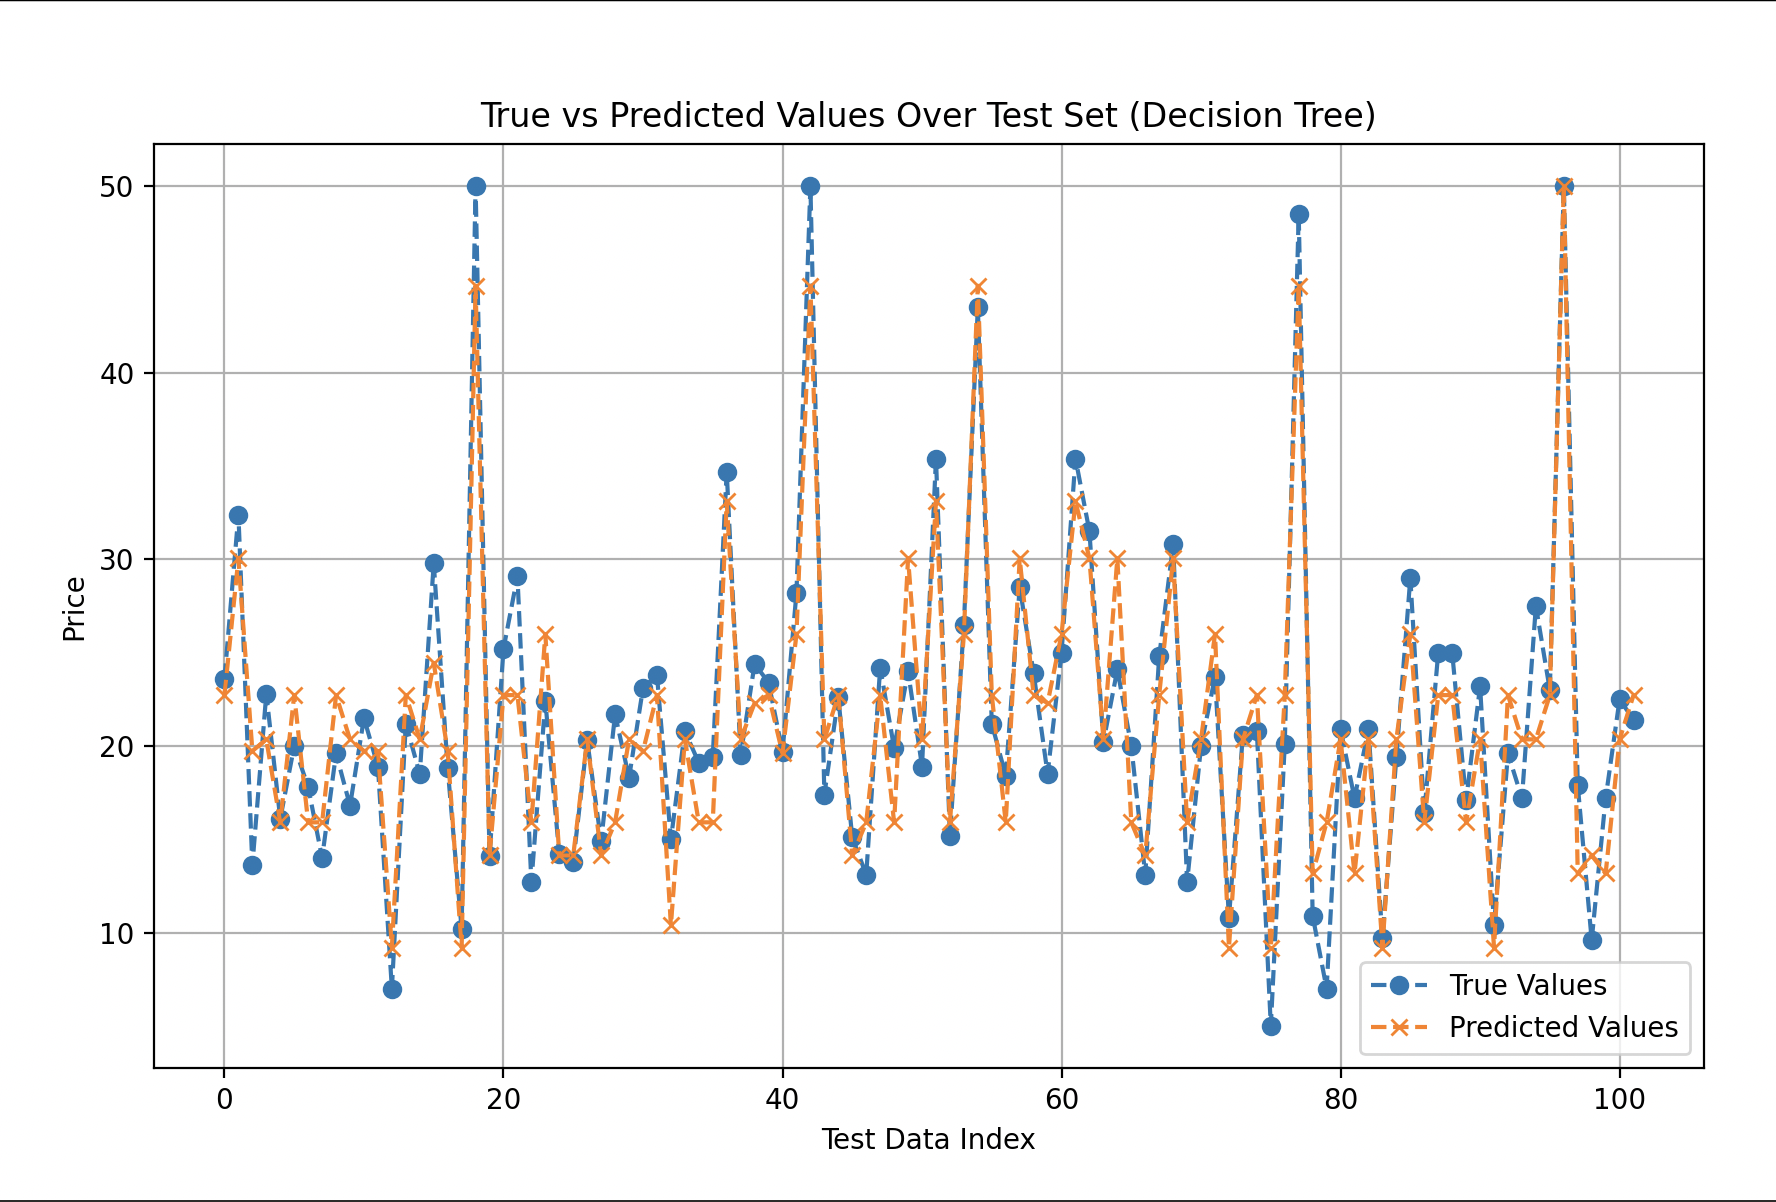
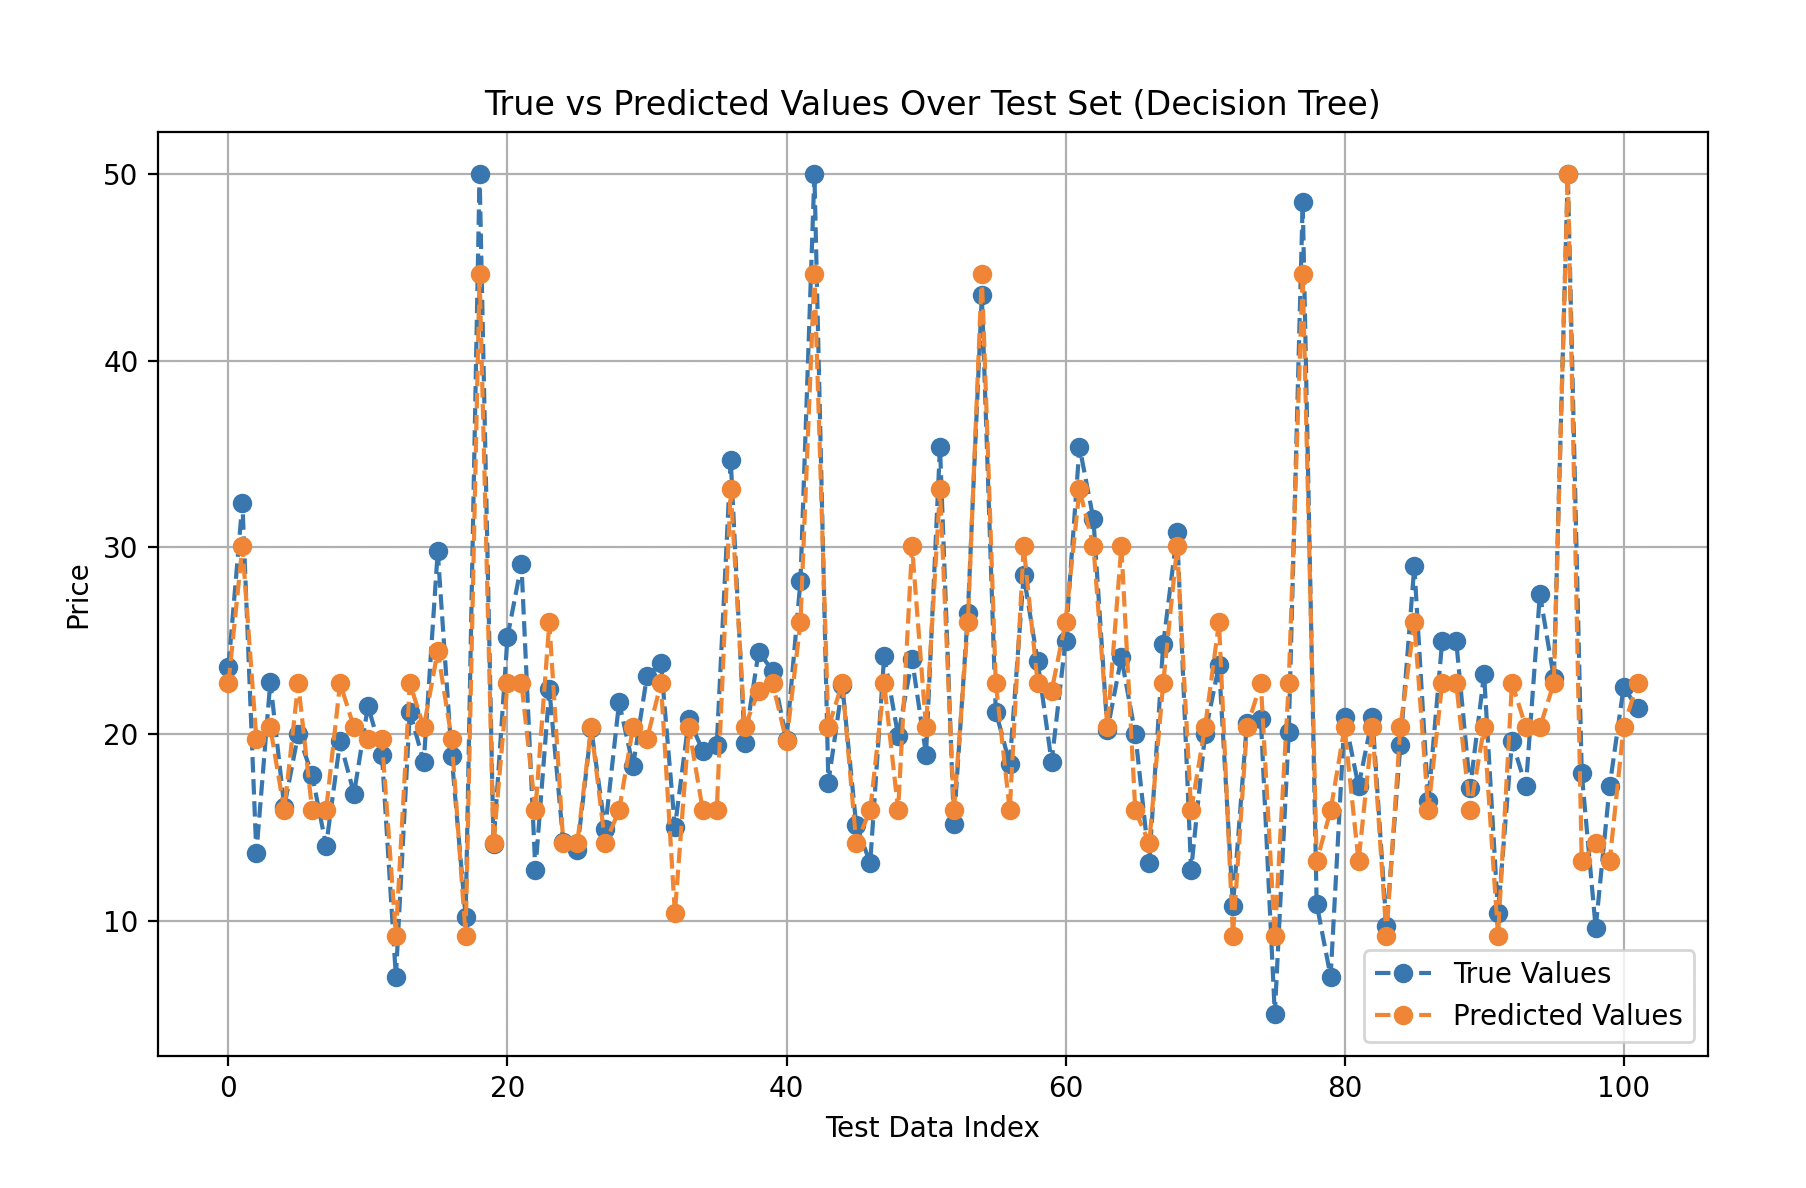
updates

diff --git a/decision_tree.py b/decision_tree.py
@@ -72,7 +72,7 @@ plt.show()
 # 4. Line Plot of Predictions vs True Values
 plt.figure(figsize=(10, 6))
 plt.plot(range(len(y_test)), y_test, label="True Values", linestyle="--", marker="o")
-plt.plot(range(len(test_predictions)), test_predictions, label="Predicted Values", linestyle="--", marker="x")
+plt.plot(range(len(test_predictions)), test_predictions, label="Predicted Values", linestyle="--", marker="o")
 plt.xlabel("Test Data Index")
 plt.ylabel("Price")
 plt.title("True vs Predicted Values Over Test Set (Decision Tree)")
